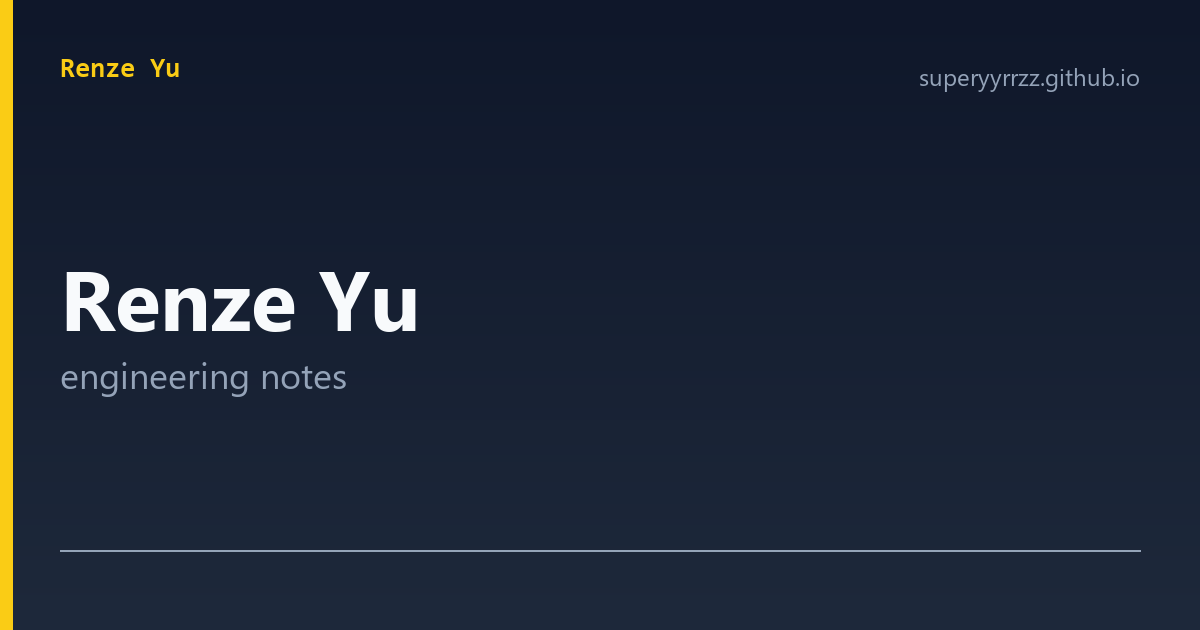
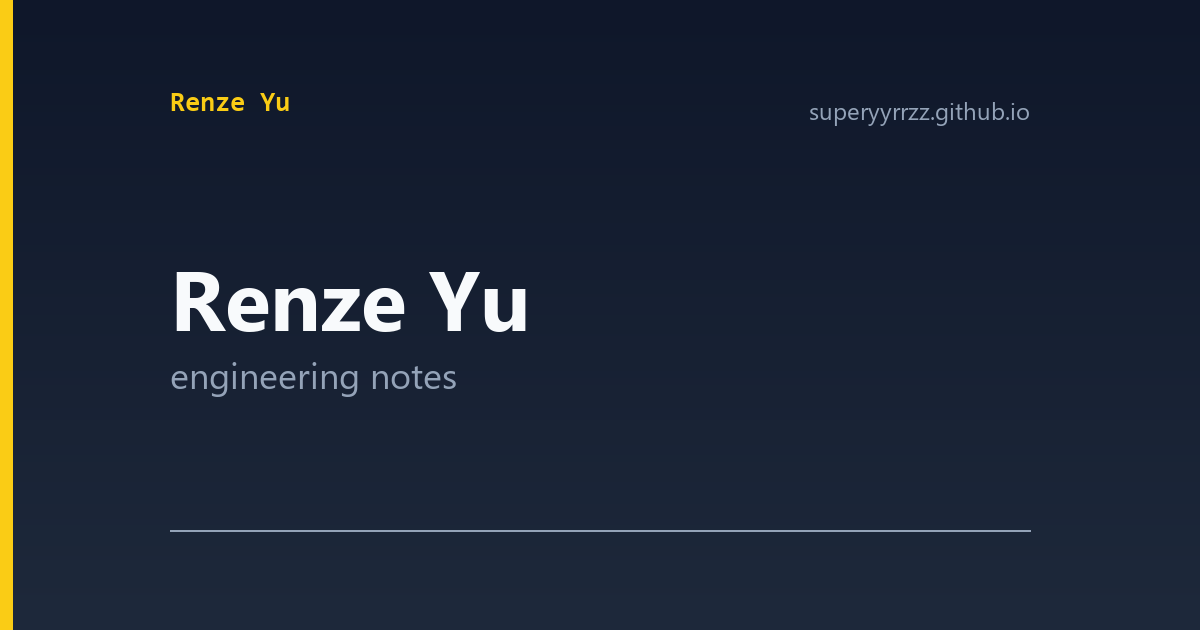
Stop OG-image titles from clipping on narrow card layouts
Two changes that together keep the post title fully visible at any
viewport width:

- og.py: introduce a 170px horizontal safe zone so all title text
  sits inside the area that survives a 4:3 center crop, the
  realistic worst case Chirpy's side-by-side card layout
  produces.
- assets/css/jekyll-theme-chirpy.scss: override Chirpy's default
  object-fit: cover on post-list/related-posts preview thumbnails
  with object-fit: contain, so the whole OG image is shown
  letterboxed when the card box is narrower than the image's
  1.91:1 aspect ratio.

Existing OG PNGs regenerated with the new safe zone.

diff --git a/assets/css/jekyll-theme-chirpy.scss b/assets/css/jekyll-theme-chirpy.scss
@@ -1,0 +1,18 @@
+---
+---
+
+@use "main";
+
+/* Local overrides */
+
+/* Show OG images in full on home/post-list cards rather than center-cropping.
+ * Chirpy's default is object-fit: cover, which clips wide title images
+ * when the card box is narrower than the image's 1.91:1 aspect ratio
+ * (typical on the side-by-side desktop layout). object-fit: contain
+ * letterboxes instead, so the whole title is always visible. */
+#post-list .preview-img img,
+#access-lastmod .preview-img img,
+.related-posts .preview-img img {
+  object-fit: contain !important;
+  background: var(--img-bg);
+}

diff --git a/tools/og.py b/tools/og.py
@@ -11,6 +11,11 @@ from pathlib import Path
 from PIL import Image, ImageDraw, ImageFont
 
 W, H = 1200, 630
+# Safe zone: keep all text inside x=[SAFE_X, W-SAFE_X], y=[SAFE_Y, H-SAFE_Y].
+# Social platforms (and our own blog grid on narrow viewports) may center-crop
+# to non-1.91:1 aspect ratios. Anything outside the safe zone can be clipped.
+SAFE_X = 170
+SAFE_Y = 90
 BG_TOP = (15, 23, 42)        # slate-900
 BG_BOTTOM = (30, 41, 59)     # slate-800
 ACCENT = (250, 204, 21)      # amber-400 — guitar/jazz nod, ties to favicon
@@ -54,27 +59,29 @@ def render(title, out_path):
     gradient(img)
     draw = ImageDraw.Draw(img)
 
-    # Accent bar on the left
+    # Accent bar on the left (decorative; safe to clip)
     draw.rectangle([(0, 0), (12, H)], fill=ACCENT)
 
-    # Site name (top-left, monospace)
-    site_font = ImageFont.truetype(CONSOLAS_BOLD, 28)
-    draw.text((60, 56), "Renze Yu", font=site_font, fill=ACCENT)
+    inner_w = W - 2 * SAFE_X
 
-    # URL (top-right, muted)
+    # Site name (top-left of safe zone, monospace)
+    site_font = ImageFont.truetype(CONSOLAS_BOLD, 28)
+    draw.text((SAFE_X, SAFE_Y), "Renze Yu", font=site_font, fill=ACCENT)
+
+    # URL (top-right of safe zone, muted)
     url_font = ImageFont.truetype(SEGOE_REG, 24)
     url = "superyyrrzz.github.io"
     url_w = draw.textlength(url, font=url_font)
-    draw.text((W - 60 - url_w, 60), url, font=url_font, fill=MUTED)
+    draw.text((W - SAFE_X - url_w, SAFE_Y + 4), url, font=url_font, fill=MUTED)
 
-    # Title (centered vertically-ish, large)
+    # Title (vertically centered, wrapped within safe zone)
     if title:
-        size = 44
+        size = 40
         tfont = ImageFont.truetype(SEGOE_BOLD, size)
-        lines = wrap(draw, title, tfont, W - 140)
-        for trial in (72, 64, 56, 50, 44):
+        lines = wrap(draw, title, tfont, inner_w)
+        for trial in (64, 56, 50, 44, 40):
             tfont = ImageFont.truetype(SEGOE_BOLD, trial)
-            lines = wrap(draw, title, tfont, W - 140)
+            lines = wrap(draw, title, tfont, inner_w)
             if len(lines) <= 4:
                 size = trial
                 break
@@ -82,16 +89,16 @@ def render(title, out_path):
         total_h = line_h * len(lines)
         y = (H - total_h) // 2 - 10
         for line in lines:
-            draw.text((60, y), line, font=tfont, fill=FG)
+            draw.text((SAFE_X, y), line, font=tfont, fill=FG)
             y += line_h
     else:
         tag_font = ImageFont.truetype(SEGOE_BOLD, 84)
-        draw.text((60, 240), "Renze Yu", font=tag_font, fill=FG)
+        draw.text((SAFE_X, 240), "Renze Yu", font=tag_font, fill=FG)
         sub_font = ImageFont.truetype(SEGOE_REG, 36)
-        draw.text((60, 350), "engineering notes", font=sub_font, fill=MUTED)
+        draw.text((SAFE_X, 350), "engineering notes", font=sub_font, fill=MUTED)
 
-    # Footer hairline
-    draw.rectangle([(60, H - 80), (W - 60, H - 79)], fill=MUTED)
+    # Footer hairline (inside safe zone)
+    draw.rectangle([(SAFE_X, H - SAFE_Y - 10), (W - SAFE_X, H - SAFE_Y - 9)], fill=MUTED)
 
     img.save(out_path, "PNG", optimize=True)
     print(f"wrote {out_path}")
